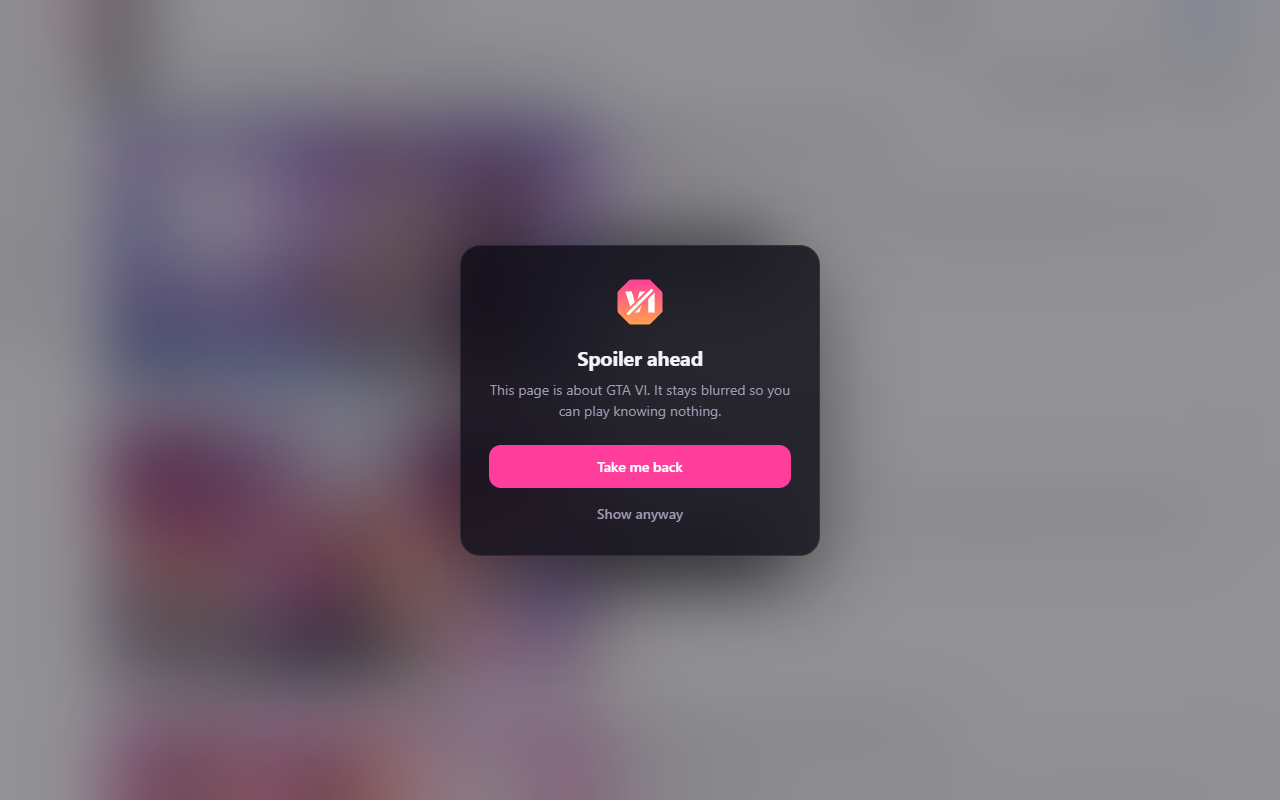
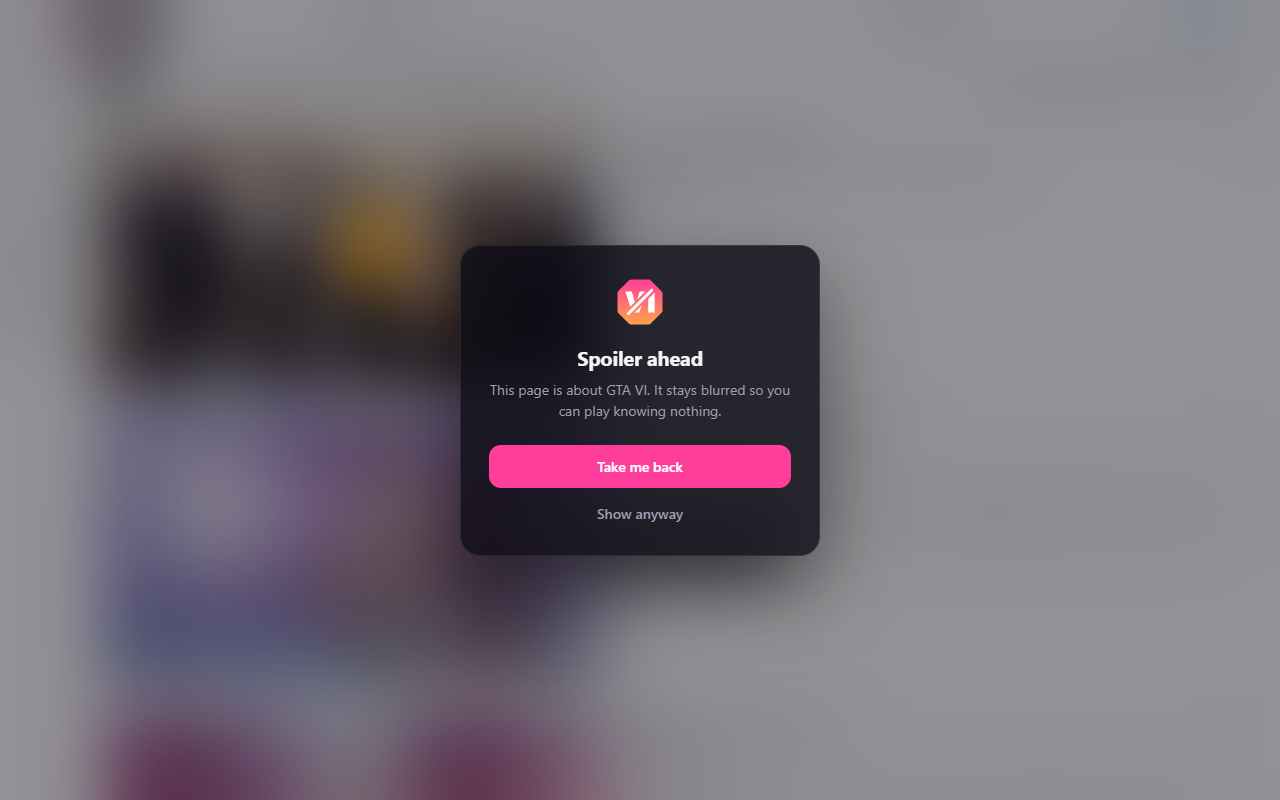
chore: generate every store graphic
pnpm icons now also writes the 128 px store icon. pnpm screenshots loads the extension into Chromium, opens YouTube, and writes the README screenshots and five framed 1280x800 store screenshots.

diff --git a/scripts/capture-screenshots.js b/scripts/capture-screenshots.js
@@ -1,0 +1,189 @@
+import { chromium } from "playwright";
+import sharp from "sharp";
+import { mkdirSync } from "node:fs";
+import path from "node:path";
+
+const EXTENSION = path.resolve("dist/gta6spoilerblocker-chrome");
+const README_DIR = "static/images";
+const STORE_DIR = "static/store";
+const SEARCH =
+  "https://www.youtube.com/results?search_query=rockstar+games+trailer";
+const MIXED =
+  "https://www.youtube.com/results?search_query=new+game+trailers+2026";
+const GTA6_PAGE = "https://www.youtube.com/results?search_query=gta+6+trailer";
+const WIDTH = 1280;
+const HEIGHT = 800;
+const FONT = "Segoe UI, Inter, Arial, sans-serif";
+
+mkdirSync(README_DIR, { recursive: true });
+mkdirSync(STORE_DIR, { recursive: true });
+
+async function launch(lang) {
+  const context = await chromium.launchPersistentContext("", {
+    channel: "chromium",
+    viewport: { width: WIDTH, height: HEIGHT },
+    locale: lang,
+    args: [
+      `--lang=${lang}`,
+      `--disable-extensions-except=${EXTENSION}`,
+      `--load-extension=${EXTENSION}`,
+    ],
+  });
+  const worker =
+    context.serviceWorkers()[0] ??
+    (await context.waitForEvent("serviceworker"));
+  return { context, worker, id: new URL(worker.url()).host };
+}
+
+async function openYouTube(context, url) {
+  const page = await context.newPage();
+  await page.goto(url, { waitUntil: "domcontentloaded" });
+  for (let attempt = 0; attempt < 12; attempt++) {
+    const reject = page.locator("button", { hasText: "Reject all" }).first();
+    if (await reject.isVisible().catch(() => false)) {
+      await reject.click({ force: true }).catch(() => {});
+      await page.waitForLoadState("domcontentloaded");
+      break;
+    }
+    await page.waitForTimeout(500);
+  }
+  await page.waitForTimeout(6000);
+  return page;
+}
+
+async function popupShot({ context, id }, tabId) {
+  const popup = await context.newPage();
+  await popup.setViewportSize({ width: 320, height: 300 });
+  if (tabId !== undefined) {
+    await popup.addInitScript((target) => {
+      const query = chrome.tabs.query.bind(chrome.tabs);
+      chrome.tabs.query = (q) =>
+        q.active
+          ? query({}).then((tabs) => tabs.filter((tab) => tab.id === target))
+          : query(q);
+    }, tabId);
+  }
+  await popup.goto(`chrome-extension://${id}/popup.html`);
+  await popup.waitForTimeout(800);
+  return popup.screenshot({ fullPage: true });
+}
+
+const escape = (text) => text.replace(/&/g, "&amp;").replace(/</g, "&lt;");
+
+async function rounded(image, width, height, radius) {
+  const mask = Buffer.from(
+    `<svg width="${width}" height="${height}"><rect width="${width}" height="${height}" rx="${radius}" fill="#fff"/></svg>`,
+  );
+  return sharp(image)
+    .resize(width, height)
+    .composite([{ input: mask, blend: "dest-in" }])
+    .png()
+    .toBuffer();
+}
+
+async function frame(file, title, shots) {
+  const header = Buffer.from(
+    `<svg width="${WIDTH}" height="120" xmlns="http://www.w3.org/2000/svg">
+      <text x="${WIDTH / 2}" y="78" text-anchor="middle" font-family="${FONT}" font-size="40" font-weight="800" fill="#f5f3f8">${escape(title)}</text>
+    </svg>`,
+  );
+  const gap = 40;
+  const boxHeight = HEIGHT - 120 - 48;
+  const metas = await Promise.all(shots.map((shot) => sharp(shot).metadata()));
+  const scale = Math.min(
+    boxHeight / Math.max(...metas.map((m) => m.height)),
+    (WIDTH - 96 - gap * (shots.length - 1)) /
+      metas.reduce((sum, m) => sum + m.width, 0),
+  );
+  const sizes = metas.map((m) => ({
+    width: Math.round(m.width * scale),
+    height: Math.round(m.height * scale),
+  }));
+  const totalWidth =
+    sizes.reduce((sum, s) => sum + s.width, 0) + gap * (shots.length - 1);
+  let left = Math.round((WIDTH - totalWidth) / 2);
+  const layers = [{ input: header, top: 0, left: 0 }];
+  for (const [index, shot] of shots.entries()) {
+    const { width, height } = sizes[index];
+    layers.push({
+      input: await rounded(shot, width, height, 14),
+      top:
+        120 +
+        Math.round((boxHeight - Math.max(...sizes.map((s) => s.height))) / 2),
+      left,
+    });
+    left += width + gap;
+  }
+  await sharp({
+    create: {
+      width: WIDTH,
+      height: HEIGHT,
+      channels: 4,
+      background: "#0d0b14",
+    },
+  })
+    .composite(layers)
+    .png()
+    .toFile(`${STORE_DIR}/${file}`);
+}
+
+const english = await launch("en-US");
+const setSettings = (patch) =>
+  english.worker.evaluate((p) => chrome.storage.local.set(p), patch);
+
+await setSettings({ enabled: false });
+const off = await openYouTube(english.context, SEARCH);
+const youtubeOff = await off.screenshot();
+await off.close();
+
+await setSettings({ enabled: true, style: "blur" });
+const blurPage = await openYouTube(english.context, SEARCH);
+const youtubeBlur = await blurPage.screenshot();
+
+await setSettings({ style: "hide" });
+const hidePage = await openYouTube(english.context, MIXED);
+const youtubeHide = await hidePage.screenshot();
+await hidePage.close();
+await setSettings({ style: "blur" });
+
+const [youtubeTab] = await english.worker.evaluate(() =>
+  chrome.tabs.query({ url: "https://www.youtube.com/*" }),
+);
+const popupEnglish = await popupShot(english, youtubeTab.id);
+
+const shieldPage = await openYouTube(english.context, GTA6_PAGE);
+const shield = await shieldPage.screenshot();
+await english.context.close();
+
+const popups = [popupEnglish];
+for (const lang of ["ja", "ar"]) {
+  const browser = await launch(lang);
+  popups.push(await popupShot(browser));
+  await browser.context.close();
+}
+
+await sharp(youtubeOff).toFile(`${README_DIR}/screenshot-youtube-off.png`);
+await sharp(youtubeBlur).toFile(`${README_DIR}/screenshot-youtube-on.png`);
+await sharp(youtubeHide).toFile(`${README_DIR}/screenshot-youtube-hide.png`);
+await sharp(shield).toFile(`${README_DIR}/screenshot-shield.png`);
+await sharp(popupEnglish).toFile(`${README_DIR}/screenshot-popup.png`);
+
+await frame("screenshot-1-blur.png", "Spoilers blur in place. Click to show.", [
+  youtubeBlur,
+]);
+await frame("screenshot-2-cover.png", "Pages about GTA VI get covered.", [
+  shield,
+]);
+await frame("screenshot-3-remove.png", "Or remove them from the page.", [
+  youtubeHide,
+]);
+await frame("screenshot-4-before.png", "Without it, GTA VI is everywhere.", [
+  youtubeOff,
+]);
+await frame(
+  "screenshot-5-languages.png",
+  "Simple controls in 20 languages.",
+  popups,
+);
+
+console.log("Screenshots written to static/images and static/store.");

diff --git a/scripts/build-icons.js b/scripts/build-icons.js
@@ -54,6 +54,22 @@ for (const size of [16, 32, 48, 128]) {
     .toFile(`public/icons/icon${size}.png`);
 }
 
+const storeIconArt = await sharp(LOGO_FILE, { density: 600 })
+  .resize(96, 96)
+  .png()
+  .toBuffer();
+await sharp({
+  create: {
+    width: 128,
+    height: 128,
+    channels: 4,
+    background: { r: 0, g: 0, b: 0, alpha: 0 },
+  },
+})
+  .composite([{ input: storeIconArt, left: 16, top: 16 }])
+  .png()
+  .toFile("static/store/store-icon-128.png");
+
 await sharp(Buffer.from(banner)).png().toFile("static/images/banner.png");
 await sharp(Buffer.from(banner))
   .resize(440, 280)
